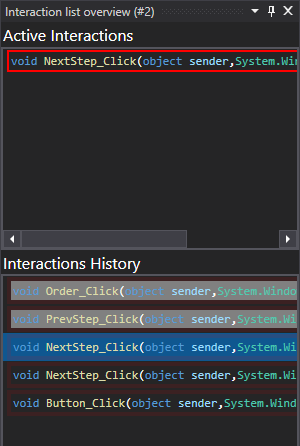
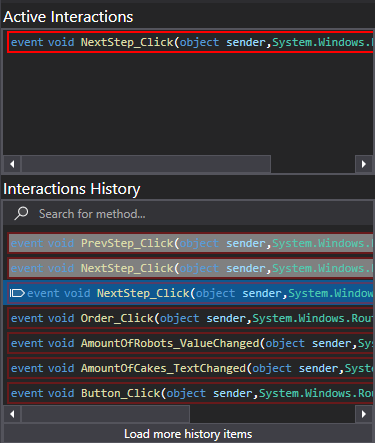
Added interaction arrow

diff --git a/_docs/features/Interactions.md b/_docs/features/Interactions.md
@@ -13,7 +13,7 @@ This feature allows you to easily see key interactions that occurred in your app
 ## How It Works
 This view can be found on both the [call tree renderer](../views/ApplicationInstanceDockWindow/CallTreeRendering.md) and the [call stack renderer](../views/ApplicationInstanceDockWindow/CallStackRendering.md)
 
-The interactions view has two lists. The "Active Interactions" and "Interactions History" lists. The active list shows all the interactions that have been called but have not yet returned. The history list shows all the interactions that can be found in the stored call stack history. The amount of items shown in the history list is limited to the value that is set in [render settings](../views/ApplicationInstanceDockWindow/CallTreeRendering.md#settings-window).
+The interactions view has two lists. The "Active Interactions" and "Interactions History" lists. The active list shows all the interactions that have been called but have not yet returned. The history list shows all the interactions that can be found in the stored call stack history. The arrow in the history list points to the current position in the callstack. The amount of items shown in the history list is limited to the value that is set in [render settings](../views/ApplicationInstanceDockWindow/CallTreeRendering.md#settings-window).
 
 The interaction lists are updated based on stepping events. If you step into or out of an method that is also an interaction, the "Active Interactions" list will add or remove the item. In the "Interaction History" list items are grayed out when they are in the "future" of the current position in the callstack. The further you step back into the history of the callstack, the more items will be grayed out.
 
